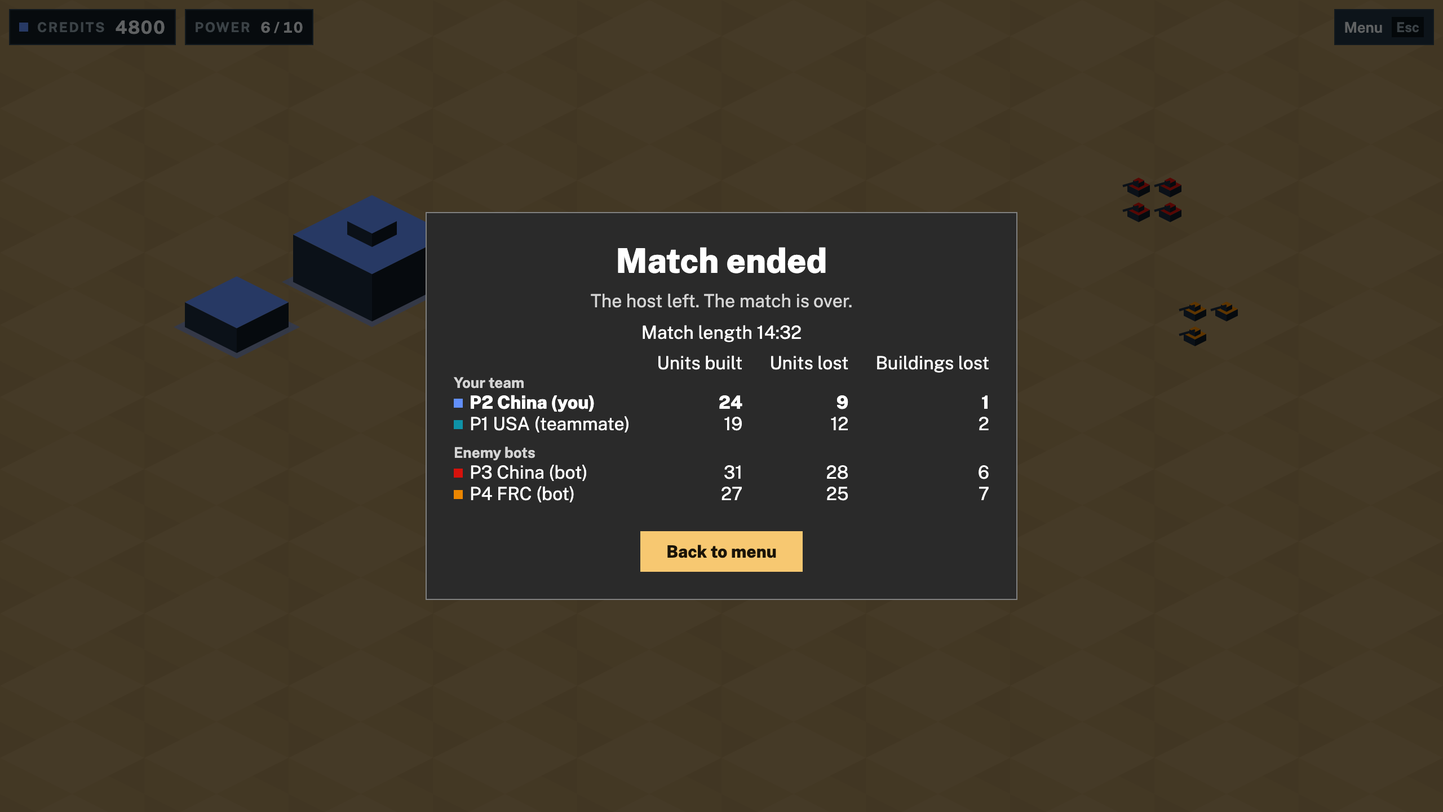
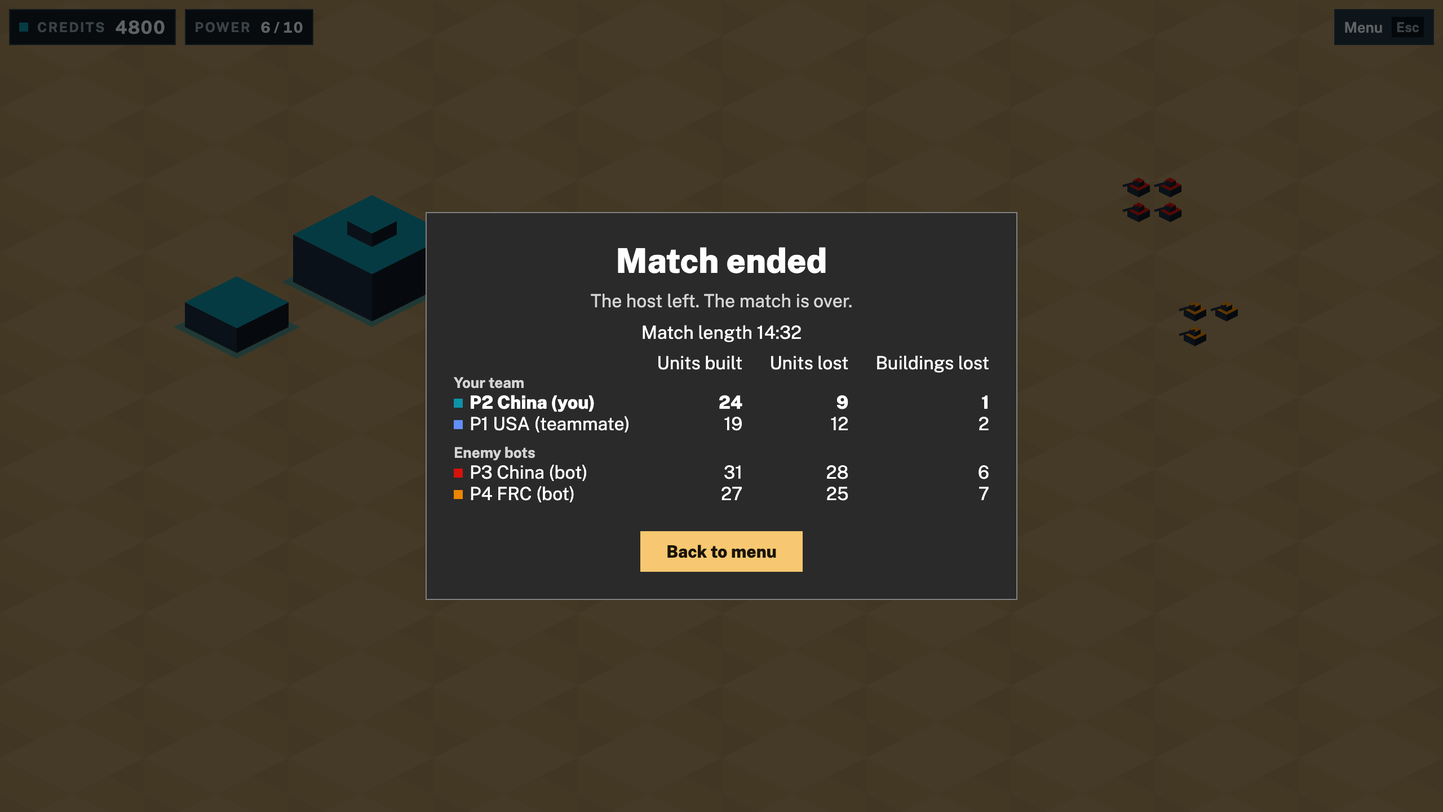
P7-2 after the owner's match: colours by player, two modes, one-line questions
Owner decisions 2026-11-24: host blue and guest teal in both windows; vs Friend with Opponents none or 2 bots; no wrapped leave or quit lines; shorter version line.

Changed region(s): [[0.1875, 0.2188, 0.3125, 0.3438], [0.125, 0.3438, 0.2188, 0.4062]]

diff --git a/docs/images/p7/team.html b/docs/images/p7/team.html
@@ -35,6 +35,7 @@ main{position:relative;width:1280px;height:720px;transform-origin:top left;overf
 .toggles{display:flex;gap:6px}
 .toggles span{flex:1 1 0;min-width:max-content;height:43px;padding:12px;text-align:center;font-weight:600;color:var(--soft);background:var(--field);border-radius:2px;white-space:nowrap}
 .toggles span.on{background:var(--sel)}
+.toggles .vlabel{width:96px;align-self:center}
 .slotgap{padding:28px 16px 12px;margin-top:-16px;position:relative;display:flex;gap:12px;align-items:baseline}
 .slotgap::before{content:'';position:absolute;left:0;right:0;bottom:0;top:16px;border:1px dashed var(--edge)}
 .stack{display:flex;flex-direction:column;gap:8px}
@@ -77,8 +78,8 @@ kbd{display:inline-block;min-width:18px;height:18px;padding:0 4px;font:700 12px/
 .off,.off span{color:#808080}
 .primary.off{background:#9a8150;color:var(--ink)}
 /* Esc menu confirm box, as docs/images/esc-round/esc.html draws it (HudSmallPanel, HudSmallButton). */
-.small{width:244px;background:rgba(26,26,26,.6);padding:8px 12px;display:flex;flex-direction:column;gap:4px}
-.small .q{text-align:center;font:400 12px/14px Public;margin-bottom:4px}
+.small{min-width:244px;background:rgba(26,26,26,.6);padding:8px 12px;display:flex;flex-direction:column;gap:4px}
+.small .q{white-space:nowrap;text-align:center;font:400 12px/14px Public;margin-bottom:4px}
 .small span{height:22px;padding:4px;font:600 12px/14px Public;color:#dfdfdf;background:rgba(26,26,26,.6);text-align:center}
 .small span.focus{box-shadow:0 0 0 2px #ccc}
 /* Result card */
@@ -114,8 +115,9 @@ const web=os==='web';
 const who=opt('who',view==='end'&&end==='left'?'host':'guest',['host','guest','out']);
 const host=who==='host';
 const VERSION='0.17.0';
-// Owner answers Q4 (user, 2026-11-24): colours by viewer, base and Neon.
-const C={base:{you:'#628ffa',mate:'#0e92a7',b3:'#d6120c',b4:'#ec8600'},neon:{you:'#2f7bff',mate:'#00d8e8',b3:'#ff2f45',b4:'#ff7a00'}}[set];
+// Colours by player (user, 2026-11-24, after the 2v2 match): the host blue, the guest teal in both windows, base and Neon.
+const PC={base:{host:'#628ffa',guest:'#0e92a7',b3:'#d6120c',b4:'#ec8600'},neon:{host:'#2f7bff',guest:'#00d8e8',b3:'#ff2f45',b4:'#ff7a00'}}[set];
+const C={you:host?PC.host:PC.guest,mate:host?PC.guest:PC.host,b3:PC.b3,b4:PC.b4};
 const ME=host?'P1 USA':'P2 China', MATE=host?'P2 China':'P1 USA';
 const sq=c=>`<i class="sq" style="background:${c}"></i>`;
 const main=document.querySelector('main');
@@ -131,13 +133,14 @@ const footer=(status,buttons,error)=>`<div class="divider"></div><div class="foo
 function play(){
   const team=mode==='team', bot=mode==='bot';
   const map=team?'Broken Crown':'Dry Wells', info=team?'4 start positions · 8 supply sources':'2 start positions · 16 supply sources';
-  const toggles=`<div class="toggles${off}" id="mode"><span class="${bot?'on':''}">vs Bot</span><span class="${mode==='friend'?'on':''}">vs Friend</span><span class="${team?'on':''}">With a friend vs 2 bots</span></div>`;
+  const toggles=`<div class="toggles${off}" id="mode"><span class="${bot?'on':''}">vs Bot</span><span class="${bot?'':'on'}">vs Friend</span></div>`;
+  const versus=`<div class="toggles${off}" id="versus"><b class="vlabel">Opponents</b><span class="${team?'':'on'}">none</span><span class="${team?'on':''}">2 bots</span></div>`;
   const slot='<div class="slotgap"><span>Open slot</span><span class="hint">Your friend picks their own faction.</span></div>';
   const mapInfo=`<div class="stack" style="align-self:start;gap:4px"><div class="hint">${info}</div>${team&&hidden?'<div class="hint" id="hidden">Dry Wells has 2 start positions; team matches need 4.</div>':''}</div>`;
   const cells=['<div class="flabel">You</div>','<div class="flabel">Map</div>',field('United States'),field(map),
     '<div class="flabel">Mode</div>',mapInfo,toggles,'<div></div>'];
   if(bot) cells.push('<div class="flabel">Bot</div>','<div></div>',field('China'),'<div></div>');
-  else cells.push(slot,'<div></div>');
+  else cells.push(versus,'<div></div>',slot,'<div></div>');
   if(team) cells.push(`<div class="stack" id="bots"><div class="flabel">Enemy bots</div>${field('China')}${field('Free Resistance Coalition')}</div>`,'<div></div>');
   const status=busy?'Connecting… 2 s':bot?'Dry Wells · United States vs China bot':'You get a link to send to your friend.';
   const buttons=busy?'<div class="secondary">Cancel</div><div class="primary off">Create match</div>':`<div class="primary">${bot?'Start match':'Create match'}</div>`;
@@ -151,7 +154,7 @@ function waiting(){
   const left=`<div class="flabel">${web?'Invite link':'Match code'}</div>
     <div style="display:flex;gap:12px"><div class="field" style="flex:1;color:#ebebeb">${web?'https://play.wargrid.example/?code=K7Q2XD':'K7Q2XD'}</div><div class="primary" style="min-width:0">${web?'Copy link':'Copy code'}</div></div>
     <div class="hint">Or tell them the code: <b style="color:#fff">K7Q2XD</b></div>
-    <div class="flabel">Your team</div>${row(1,'You','United States',C.you)}
+    <div class="flabel">Your team</div>${row(1,'You','United States',PC.host)}
     <div class="open"><span>2</span><span>Open</span><span class="hint">waiting for your friend…</span></div>
     <div class="flabel">Enemy bots</div>${row(3,'China (bot)','',C.b3)}${row(4,'Free Resistance Coalition (bot)','',C.b4)}`;
   const right='<div class="flabel">Map</div><div class="mappanel"><span class="bold">Broken Crown</span><span class="hint">4 start positions · 8 supply sources</span></div>';
@@ -162,7 +165,7 @@ function waiting(){
 
 function join(){
   // The relay refuses only the joiner (relay/room.go join), so the line must tell the guest how the pair gets going again.
-  const line=`Your friend’s game is a different version from yours (v${VERSION}). Whoever is behind updates or reloads, then the host creates a new match.`;
+  const line=`Your friend’s game is a different version from yours (v${VERSION}).`;
   const cells=['<div class="flabel">Match code</div>','<div class="flabel">Map</div>',
     '<div class="field" style="height:50px">K7Q2XD</div>','<div class="hint" style="align-self:start">The host chooses the map.</div>',
     '<div class="hint">Opened a join link? The code is already filled in.</div>','<div></div>',

diff --git a/docs/packages.md b/docs/packages.md
@@ -28,7 +28,7 @@ Player packages, in order; ids keep the order packages were placed in, so P5 and
 | P17 | Pan with the mouse | Right-drag pans like Zero Hour (anchor at the click, speed grows with distance, a scroll cursor; GeneralsGameCode `afc2a103f` `LookAtXlat.cpp:257-281`, `:476-483`), middle-drag grabs the map 1:1; a short right-click still orders: the order fires on release only if the pointer never moved past about 8 px (user, 2026-11-23; engine scan in the private notes). Edge scroll stays as the beginner way. Built before P16 (user, 2026-11-23, director round) | Every right-button action (orders, placement cancel, attack-move exit, cell cancel) fires on release within about 8 px, so a right-drag never cancels placement; `H` pressed again near the Headquarters returns the camera to where it was (0 A.D. `jumpCamera`) and the arrival ring where `H` or `Space` lands (moved from P16, user, 2026-11-23); a check of what a Mac trackpad sends; invert toggle later |
 | P16 | Know what your factory is making | The production panel redesign from the owner's draft v2 (user, 2026-11-23): `NOW PRODUCING` with the unit's glyph, name and bar, a `NEXT` row with runs merged as `×N`, a read-only `+N more` list, `QUEUE n / 9` beside the queue, one panel height in every state; cancel by kind (right-click on the build cell) plus the unit in production; unit glyphs (building glyphs wait for P2.6). Answers: [queue follow-up round](reference/design-answers-2026-11-08.md#queue-follow-up-round-user-2026-11-23). Plus the production strip right of POWER (`hud-v5-layout.md` Full set): one chip per finished producer with its unit glyph and a progress bar, hollow when idle, a click selects it, a double click also jumps there (user, 2026-11-23, director round) | The NOW row explains slow or stuck production (`Low power`, `Exit blocked`); a trace count of accidental NOW cancels (a cancel then the same kind queued within 2 s) |
 | P18 | A short Esc menu | The owner finds today's Esc menu too full and unstructured (user, 2026-11-23, P17 review round): eight buttons, volume sliders and a 26-row controls list that has no room left for P17's drag and trackpad rows at 720 px. Engine survey (private, `research/esc-menu-patterns-2026-11-23.md`): no local engine puts a controls list on its pause menu (Zero Hour 5 buttons, Warzone 2100 5-6, OpenRA about 7, 0 A.D. 10); the reference sits behind its own button or page. Recommendation to test on the one page: Resume, Settings, Controls, Leave (Quit on desktop); the toggles and sliders move into Settings; Controls becomes its own page, mouse first, built from `PauseMenu.controls()`, with the P17 rows (right and middle drag, two-finger pan and pinch on macOS). After P16 (user, 2026-11-23) Rider (user, 2026-11-24): remove the strip's stacked chip and its `F7` toggle (the owner kept upright after trying both); idle producers show no chip in the production strip, also beside a busy one (user, 2026-11-24, [strip round](reference/design-answers-2026-11-08.md#production-strip-round-user-2026-11-23)) | Look in a blocking War Room round before the build; headless layout tests at 1280x720, 1280x800 and 1920x1080; the controls test (CL2) keeps every key row probed; risk to watch: one more click to the cheat sheet, so the first match must still teach the mouse |
-| P7 | Team up against bots | You and a friend against two bots online (user, 2026-11-16, [online teams](superpowers/specs/2026-11-16-online-teams-design.md); offline team matches with an allied bot moved to the Later item Team up with a bot by the fun-first reorder, user, 2026-11-20). Bot change (user, 2026-11-20, [director round](reference/design-answers-2026-11-08.md#fun-first-reorder-user-2026-11-20), after the owner's read of today's bot (user, 2026-11-20): "it plays ok, it just builds too few units too slowly and can be overwhelmed after a few minutes easily. It also doesn't deal well with base defenses in its way"): the enemy bots build more units sooner, both enemy bots share one wave clock and one target so their armies leave together, waves grow over the match, and a bot wave deals with base defences in its way; spec-worded tests per rule and one bot-trace re-pin; the pass bar keeps both night-12 columns hard, with an idle-human floor and at most 16 units per team in wave 0, since no bot-rating evening runs (user, 2026-11-21, [fun-first prep](reference/design-answers-2026-11-08.md#fun-first-prep-user-2026-11-21) 7-12, 7-13); the host picks the map (only maps with at least as many starts as seats) and each bot's faction before Create match; the match starts when the friend joins; teammates start side by side; the host's game runs the bots and sends their orders in its own frames, so the relay room stays at two seats, but lockstep's stamp check must accept them (a per-seat set of allowed players fixed at the start; today the bad command stamp check in `lockstep.gd` `_receive_tick` ends the match); a defeated guest may leave without ending the match (needs night Play on after a leave); the host leaving, defeated or not, ends the match with the reason shown; a teammate who quits ends the match with a result panel headed "Match ended", no winner, saying who left (`<name> left the match`; the reasons come with P8, user, 2026-11-21), and Play again is hidden then; a plain version-mismatch message; P7 takes its launcher and notice rows of P2.3a2's wording table (the version mismatch, the team waiting text) ahead of P2.3a2, and its card lists F29 (the voice before a refusal) as known, not new (fun-first reorder, user, 2026-11-20). Today's bot. Decisions recorded ([fun-first prep](reference/design-answers-2026-11-08.md#fun-first-prep-user-2026-11-21)); part 1 (enemy-bot rules) merged to `main` 2026-11-22 ([plan](superpowers/plans/2026-11-21-p7-enemy-bots.md), [verification](reference/p7-verification.md)); part 2 (2v2 online) plan written 2026-11-24 ([plan](superpowers/plans/2026-11-24-p7-2-team-online.md), [answers](reference/design-answers-2026-11-08.md#p7-part-2)), branch `p7-2-team-online`. Relay guards riders (user, 2026-11-17, [triage](reference/relay-guards-verification.md#p3-triage-2026-11-17) #68, #85): a refused WebSocket send gets its own end reason in the result panel; test the bots' refusal handling once they submit through `Lockstep`. Rider (user, 2026-11-19, director round after [P2.3a1 gate A](reference/design-answers-2026-11-08.md#p23a1-gate-a-user-2026-11-19)): map pings for teammates as decided ([HUD answers](reference/design-answers-2026-11-08.md#hud-m76), 2026-11-09: no text, one per player, a new one replaces the old, 30 s; an edge arrow in the ally colour for an off-screen ping, click jumps there), since P7 is the first package where a friend shares your team; not started. | the Play page picks the mode in one row, `vs Bot · vs Friend · With a friend vs 2 bots`, no A/B, and the version-mismatch message is a static mock-up checked by the player-experience reviewer, no A/B (user, 2026-11-21, [fun-first prep](reference/design-answers-2026-11-08.md#fun-first-prep-user-2026-11-21) 7-16, 7-17); the timed hidden-tab check (3, 8 and 15 s in Firefox, Chrome and Safari, [F11](STATUS.md#findings-list)) in its friend session (user, 2026-11-16); the result panel names who left, your teammate or an opponent (extends F27's panel; user, 2026-11-16; the why waits for P8, user, 2026-11-21), including a seat the relay threw out (Relay guards: in a 1v1 that gives the other player today's opponent-left Victory, accepted by the user 2026-11-16); the review proposals in the [record](superpowers/specs/2026-11-16-online-teams-design.md#design-inputs-from-the-player-experience-review-proposals-not-decided), decided except the version message's content (user, 2026-11-21, 7-26 to 7-29); gate: headless 2v2 netplay pin, offline 2v2 trace, a rendered 2v2 Ashfall row, a real friend session with native Mac and Firefox (Safari and Chrome report-only) |
+| P7 | Team up against bots | You and a friend against two bots online (user, 2026-11-16, [online teams](superpowers/specs/2026-11-16-online-teams-design.md); offline team matches with an allied bot moved to the Later item Team up with a bot by the fun-first reorder, user, 2026-11-20). Bot change (user, 2026-11-20, [director round](reference/design-answers-2026-11-08.md#fun-first-reorder-user-2026-11-20), after the owner's read of today's bot (user, 2026-11-20): "it plays ok, it just builds too few units too slowly and can be overwhelmed after a few minutes easily. It also doesn't deal well with base defenses in its way"): the enemy bots build more units sooner, both enemy bots share one wave clock and one target so their armies leave together, waves grow over the match, and a bot wave deals with base defences in its way; spec-worded tests per rule and one bot-trace re-pin; the pass bar keeps both night-12 columns hard, with an idle-human floor and at most 16 units per team in wave 0, since no bot-rating evening runs (user, 2026-11-21, [fun-first prep](reference/design-answers-2026-11-08.md#fun-first-prep-user-2026-11-21) 7-12, 7-13); the host picks the map (only maps with at least as many starts as seats) and each bot's faction before Create match; the match starts when the friend joins; teammates start side by side; the host's game runs the bots and sends their orders in its own frames, so the relay room stays at two seats, but lockstep's stamp check must accept them (a per-seat set of allowed players fixed at the start; today the bad command stamp check in `lockstep.gd` `_receive_tick` ends the match); a defeated guest may leave without ending the match (needs night Play on after a leave); the host leaving, defeated or not, ends the match with the reason shown; a teammate who quits ends the match with a result panel headed "Match ended", no winner, saying who left (`<name> left the match`; the reasons come with P8, user, 2026-11-21), and Play again is hidden then; a plain version-mismatch message; P7 takes its launcher and notice rows of P2.3a2's wording table (the version mismatch, the team waiting text) ahead of P2.3a2, and its card lists F29 (the voice before a refusal) as known, not new (fun-first reorder, user, 2026-11-20). Today's bot. Decisions recorded ([fun-first prep](reference/design-answers-2026-11-08.md#fun-first-prep-user-2026-11-21)); part 1 (enemy-bot rules) merged to `main` 2026-11-22 ([plan](superpowers/plans/2026-11-21-p7-enemy-bots.md), [verification](reference/p7-verification.md)); part 2 (2v2 online) plan written 2026-11-24 ([plan](superpowers/plans/2026-11-24-p7-2-team-online.md), [answers](reference/design-answers-2026-11-08.md#p7-part-2)), branch `p7-2-team-online`. Relay guards riders (user, 2026-11-17, [triage](reference/relay-guards-verification.md#p3-triage-2026-11-17) #68, #85): a refused WebSocket send gets its own end reason in the result panel; test the bots' refusal handling once they submit through `Lockstep`. Rider (user, 2026-11-19, director round after [P2.3a1 gate A](reference/design-answers-2026-11-08.md#p23a1-gate-a-user-2026-11-19)): map pings for teammates as decided ([HUD answers](reference/design-answers-2026-11-08.md#hud-m76), 2026-11-09: no text, one per player, a new one replaces the old, 30 s; an edge arrow in the ally colour for an off-screen ping, click jumps there), since P7 is the first package where a friend shares your team; not started. | the Play page picks the mode in one row, `vs Bot · vs Friend · With a friend vs 2 bots`, no A/B (since the owner's 2v2 match `vs Bot · vs Friend` with an Opponents choice under vs Friend, user, 2026-11-24, [P7 part 2](reference/design-answers-2026-11-08.md#p7-part-2)), and the version-mismatch message is a static mock-up checked by the player-experience reviewer, no A/B (user, 2026-11-21, [fun-first prep](reference/design-answers-2026-11-08.md#fun-first-prep-user-2026-11-21) 7-16, 7-17); the timed hidden-tab check (3, 8 and 15 s in Firefox, Chrome and Safari, [F11](STATUS.md#findings-list)) in its friend session (user, 2026-11-16); the result panel names who left, your teammate or an opponent (extends F27's panel; user, 2026-11-16; the why waits for P8, user, 2026-11-21), including a seat the relay threw out (Relay guards: in a 1v1 that gives the other player today's opponent-left Victory, accepted by the user 2026-11-16); the review proposals in the [record](superpowers/specs/2026-11-16-online-teams-design.md#design-inputs-from-the-player-experience-review-proposals-not-decided), decided except the version message's content (user, 2026-11-21, 7-26 to 7-29); gate: headless 2v2 netplay pin, offline 2v2 trace, a rendered 2v2 Ashfall row, a real friend session with native Mac and Firefox (Safari and Chrome report-only) |
 | P15 | First new units | A heavy tank per faction, data and a shape each, no new simulation code (balance input: F44 and the p2-3b night's `p15-balance.md`, private, user 2026-11-23) (user, 2026-11-20, [director round](reference/design-answers-2026-11-08.md#fun-first-reorder-user-2026-11-20)): China Overlord without its add-ons, FRC Marauder on today's salvage weapon tiers, USA Paladin without its point-defence laser (a recorded departure until ground batch A); stretch: the FRC Terrorist (one small mechanic: its shot kills itself, the blast uses the existing splash) if the three land under budget; unarmed transports (Ambulance, Troop Crawler) and artillery stay in ground batch A; none is stealth or artillery, so the fog and targetability rule stays for the rest of ground batch A; it builds the kind-row cap for the first seventh selectable kind ([layout reference](reference/hud-v5-layout.md#selection-panel)), a counter line and grid slot per new kind on P2.3b's card, and a shape per unit in today's look (P2.4 redraws it); the heavies go into the bots' lists, which re-pins the bot traces; the picked units leave ground batch A ([fun-first reorder, user, 2026-11-20](superpowers/specs/2026-11-20-fun-first-reorder-design.md)). Lighter process ([design](superpowers/specs/2026-11-20-fun-first-reorder-design.md#lighter-process-for-p23b-p7-and-p15)), superseded by `AGENTS.md` (user, 2026-11-22). Riders from the night 14 review of these decisions (user, 2026-11-22): the new units' own display names are picked ([fun-first prep 15-12](reference/design-answers-2026-11-08.md#fun-first-prep-user-2026-11-21)); the heavies get very different silhouettes per faction, picked in a blocking War Room round before the first slice (15-13, user, 2026-11-22); the plan's Terrorist task starts with a failing test of it reaching a standing Rifleman one cell away, and its range changes only if that test fails, recorded as a departure from Zero Hour; Zero Hour's bot wave templates for these units are not part of P15, which stays data-only: they become their own package after it (Later pile, Bots field mixed waves); the gate review follows the current [night run](night-run.md) reviewers. Rider from the p16-prep night review (user, 2026-11-24): "today's salvage weapon tiers" are settled before the build, because `frc_tank` has only two distinct guns (20, 25, 25; `frc.gd`) while Zero Hour's Marauder has three (60 AP at 2000, 1500 and 750 ms; paper check `p15-balance-checks.md`, private). Decisions recorded ([fun-first prep](reference/design-answers-2026-11-08.md#fun-first-prep-user-2026-11-21)), plan not written | Balance judged in playtests: the four-units rule is dropped (user, 2026-11-20) |
 | P19 | Hear the whole battlefield | The Zero Hour sound categories Wargrid still lacks, for today's units and P15's heavies (user, 2026-11-24; gap table from `soundeffects.ini` and the object INI fields): a move-start rev per vehicle (`SoundMoveStart`, e.g. `CrusaderTankMoveStart`) and a turret loop while it turns (`TurretMoveLoop`), from the Sci-Fi III Vehicle, Sci-Fi Transport and Robot Mechanics takes; a death sound per unit type instead of one infantry and one vehicle sound; building damaged states (`SoundOnDamaged`, `SoundOnReallyDamaged`); a sound when you select a building (`SupplyCenterUSASelect` and others); cash and supply sounds (a collector unloading at the depot). Each is per faction where Zero Hour has it per faction, built by `tools/audio/licensed.py` with a free fallback, as the licensed fire sounds. Pack material (`~/music_sounds`, checked 2026-11-24): move start from Sci-Fi III Vehicle (Pulse Engine, Turbine Fusion, Skimmer, Warper; 5 takes each) and Sci-Fi Transport Gliders and Speeders (44, with left-right pass-bys); turret from Sci-Fi Robot Mechanics (Servo, Servo Heavy, Tank; 16); vehicle deaths from Rocket Explosion A to C and Orbital Bombardment; building select from Sci-Fi Doors (8) and Power-Ups; cash from Power-Up Metalic and Sci-Fi III Magnet Bolt. Not in the packs: tank treads, infantry deaths, building damage and collapse; those need another pack or generated sounds, as flame and spray did. Picked in one War Room listening round before the build. Placed after P15 so the heavies get their sounds in the same pass. Not in it: aircraft engines, garrison, stealth and enter or exit (their units come later), upgrade and promotion sounds (ground batch A), map ambience, fight music (its own entry below) | Sound only: no simulation or trace change; the voice caps keep today's totals |
 | P2.3a2 | Know why an order failed | The refusal line says why in player wording from a table over the simulation's refusal texts (match and launcher), with its own sound rule: the acknowledgement voice and order hint only for accepted orders, not before the answer ([F29](STATUS.md#findings-list), user, 2026-11-16), the refusal beep loud enough ([F30](STATUS.md#findings-list), user, 2026-11-17), online the same rule waits for the simulation's validation instead of counting every sent order as accepted ([F16](STATUS.md#findings-list), user, 2026-11-20), the N-cap rider, and the in-match Esc menu with the launcher Settings structure (user, 2026-11-14). Plan not written; not started. Wording-table inputs from the Relay guards player-experience review (user, 2026-11-17; [triage](reference/relay-guards-verification.md#p3-triage-2026-11-17)): join refusals show raw relay words (`relay busy`, `too many joins`) in the launcher footer; the acknowledgement voice plays before a refusal; a wrong code during an unknown-code flood reads as "Connection to relay lost". Rider ([triage](reference/relay-guards-verification.md#p3-triage-2026-11-17) #86): the N-cap test checks the text only; extend it with the reject sound, HUD state and accepted orders when F29 changes `_submit`. Rider (user, 2026-11-18, [critique review](reference/design-answers-2026-11-08.md#sim-boundary-critique-review-user-2026-11-18)): overtaken orders get their own column in the wording table, silent for a dead target or unit, a neutral line for an emptied pile or a finished production entry. Riders (user, 2026-11-20, [P2.3a1 gate B](reference/design-answers-2026-11-08.md#p23a1-gate-b-screenshot-round-user-2026-11-20)): when a unit finishes, the visible queue rows shift down one slot, so a cancel can hit the next newer entry: hold the rows while the pointer is in the queue, like the kind rows; the Desync notice prints the OS save path (backslashes on Windows, a three-line wrap there): decide whether players see the path at all. Director proposal, drafted for the owner before it is built (user, 2026-11-20): while a refusal shows, the thing it is about flashes in `warn` (the credits for "Insufficient credits", the ghost for a blocked footprint, the power group for low power). | The Esc menu gets an opaque panel and the launcher Settings structure (actions on top, then grouped Audio, Graphics and Playtest sections with headers and the launcher's switches) instead of one stacked list; its buttons are see-through today and its Mute is Godot's default switch (user, 2026-11-14, after the P2.1 desktop check); gate: a rendered rerun with a refusal shown during the sample. Rider (user, 2026-11-20, P2.3a1 night review): on a dead match (desync, disconnect) Esc on the freeze card must not open the pause menu's Resume; it offers only leave and report. Gate rider (user, 2026-11-20, [low-end loose ends](reference/design-answers-2026-11-08.md#low-end-report-loose-ends-user-2026-11-20)): HUD rebuilds on change, plus the match-bench pair `load=team&hud=off` against `load=team`. |
@@ -42,7 +42,7 @@ Player packages, in order; ids keep the order packages were placed in, so P5 and
 | P5 | Units that find their way | Core movement on the new movement base, behind a toggle key ([decisions](reference/design-answers-2026-11-08.md#movement-and-pathing-user-2026-11-10), [core and advanced slices](reference/design-answers-2026-11-08.md#package-review-second-pass-user-2026-11-13-night)): the provisional base method in minimal form (rectangle navmesh B; the finer grid A as reference, and as fallback if B fails the stuck check), individual routes, body-safe straightening, and moving units never lock cells (only stopped units do, reference-counted, the Permafrost rule); deferred path delivery under a searched-node budget ([simulation review answers](reference/design-answers-2026-11-08.md#simulation-reference-review-user-2026-11-13)), so a big order gets every unit moving within a tick or two. The movement lab holds only what core needs: the budget size (8 against 32 against all, response to the click against cost), navmesh against finer-grid path shape, body-safe against centre-line straightening. One task in the movement lab: simulation debug overlays for routes, blocked cells and navmesh rectangles (user, 2026-11-16, OpenRCT2 review (private)). Riders (user, 2026-11-16, OpenRA review (private)): weighted A* as one A/B parameter, keeping the explicit f, g, node-index tie-break deterministic; a search recorder for the stuck scenarios. Candidate (user, 2026-11-16, Hypersomnia review (private)): re-plan only when the goal cell changes, measured in the stuck scenarios. Advanced movement comes later ([Later](#later)) | First step: the seeded fuzz and invariant test (moved from P4); the cross-platform path determinism test early (item 8 of the 2026-11-10 list). Before the plan: low-end D10, the forward budget table with D5's bot line ([loose ends](reference/design-answers-2026-11-08.md#low-end-report-loose-ends-user-2026-11-20)) |
 | P2.4 | Three armies | Own shapes for the units the factions share today ([pictures](images/map-art/notes.md), [decisions](reference/design-answers-2026-11-08.md#map-art-faction-shapes-m75-user-2026-11-13)): rifle and rocket infantry per faction, USA and China bulldozer, Scout Car and Armed Pickup as two vehicles; the four tanks with faction hull outlines (FRC tank 0.7 cells, Armed Pickup about 0.65), the USA soldier's head and the light vehicles' guns (round 4, user, 2026-11-14). Drawing only | Paint-order audit at eight headings (it samples two today), and the one-sample fault it finds in today's rifle infantry fixed (user, 2026-11-13); zoom 2 finish: `_build_parts` reads the detail level, with these units' zoom 2 versions; palette: darker side band, lifted owner colours, firmer cliffs (rounds 4 and 5, user, 2026-11-14). Prep answers (user, 2026-11-14, [questionnaire](reference/design-answers-2026-11-08.md#map-art-faction-shapes-m75-user-2026-11-13)); estimate (agent): about a third more unit triangles, about +0.26 ms rendered tick-frame p95 on the Scout Car layouts. Design and plan not written; the unit shadow drawn as a 2:1 rhombus like every other ground shape, size, darkness and High-only unchanged (user, 2026-11-15, [design answers](reference/design-answers-2026-11-08.md#visual-and-ux-proposal-second-pass-user-2026-11-15)); rider (user, 2026-11-10, placed in the backlog review 2026-11-16): driving cues for vehicles, minimal bits only, no fancy animations: moving track stripes or wheel spokes, a small dust or exhaust puff, a slight body bob or tilt on start and stop; presentation only; Zero Hour's tread scroll and dust are read at design Round 6 riders (user, 2026-11-17; [map art reference](reference/map-art-shapes.md) and [`shapes-picked.json`](images/map-art/shapes-picked.json)): owner palette A (`628ffa d6120c 4ad49b f8e425 0e92a7 7242fe ec8600 f79cef`), the Neon removal (F12) and an opt-in friend/foe colour mode with colour-blind presets; pink against the HUD cyan checked here. The China tank's two barrels further apart, and tracks and wheels, each on an A/B (user, 2026-11-17). Open from round 6 (agent findings, placed here by the user, 2026-11-17): tritanopia is outside the colour bar. |
 | P6 | Units that make room | Core avoidance on the new movement base, behind a toggle key: moving units get past each other as soft movers: they push and are pushed, with pressure damping, and parked units block their cell ([simulation review answers](reference/design-answers-2026-11-08.md#simulation-reference-review-user-2026-11-13)). The avoidance spike's Zero Hour style yielding (approach A, tag `archive/spike-avoidance`, `docs/reference/unit-avoidance-spike.md` there; [behaviour](reference/design-answers-2026-11-08.md#unit-avoidance-behaviour)) is a reference only. Advanced avoidance comes later ([Later](#later)) | Cost cap about 0.5 ms per tick on the 300-unit benchmark rows ([scope](reference/design-answers-2026-11-08.md#unit-avoidance-scope)), never loosened; the design measures the soft-mover cost first, and a miss stops for the user (no avoidance spike variant met the cap); at its planning (user, 2026-11-15, moved here in the backlog review 2026-11-16): the open unit avoidance round 2 questions 4 to 6, 9, 10 and 12 ([design answers](reference/design-answers-2026-11-08.md)); low-end D11, the team match and skirmish3v3 in the first measurement ([loose ends](reference/design-answers-2026-11-08.md#low-end-report-loose-ends-user-2026-11-20)) |
-| P11 | Friends against friends | Join puts players into a room: the host may still change the map, everyone marks ready (any change clears it), the host starts; humans on both sides (user, 2026-11-16; [blueprint M9 lobby look](blueprint.md#m9--3v3-online)). Placed after P6 by the agent, approved with the arrangement. Design and plan not written | Layout candidates as a [War Room](../warroom/README.md) round first, built on the sidebar launcher's [mock-ups](images/launcher-mockups/) (Play, Waiting with its READY badge; no ready-room mock-up exists); the design compares lobby backend option B (the direction) with the relay-only option A |
+| P11 | Friends against friends | Join puts players into a room: the host may still change the map, everyone marks ready (any change clears it), the host starts; humans on both sides (user, 2026-11-16; [blueprint M9 lobby look](blueprint.md#m9--3v3-online)). Each player chooses their own colour and start position in the lobby (user, 2026-11-24, [P7 part 2](reference/design-answers-2026-11-08.md#p7-part-2)). Placed after P6 by the agent, approved with the arrangement. Design and plan not written | Layout candidates as a [War Room](../warroom/README.md) round first, built on the sidebar launcher's [mock-ups](images/launcher-mockups/) (Play, Waiting with its READY badge; no ready-room mock-up exists); the design compares lobby backend option B (the direction) with the relay-only option A |
 | P2.5 | Supplies you can read | Supply piles as rows of pallets that empty, cargo in white (round 6), salvage crates as a shape on a mat, construction inside four corner posts, a tandem-rotor Supply Helicopter; no text on the map (F6, F7 look). Drawing only. Needs P2.3a1 first, with credits left and build percent in its selection panel | Supply Helicopter rotors pinned to the hull ends, with a test at several headings (today's rotor drifts from its hull while turning; user, 2026-11-13); its motion stays with the aircraft work Round 6 riders (user, 2026-11-17; [map art reference](reference/map-art-shapes.md) and [`shapes-picked.json`](images/map-art/shapes-picked.json)): cargo white `#ffffff`, the earth pile pad, and hiding the fixed footprint fill the game paints under every supply source. Open from round 6 (agent findings, placed here by the user, 2026-11-17): the sand pad `#5c4e33` breaks SH15 in owner 0's slot 5, and the salvage crate's drum takes the pad colour. Rider (user, 2026-11-21): rerun the README capture (`readme_capture.gd`, [guide](guide/13-testing-and-tooling.md#offscreen-captures)) at the gate, so the README shows the board without map text. |
 | P2.6 | Three kinds of base | Own body per faction for Barracks, Vehicle Factory, Headquarters, Supply Depot and Power Plant (FRC: Vehicle Yard, Supply Cache, no Power Plant). Drawing only. Damage looks picked (round 4, user, 2026-11-14): corners off the camera side at 70 % and 35 %, darker roof, thin smoke below 35 %; with the China power plant and barracks heights and the FRC barracks outline | The buildings' zoom 2 versions (user, 2026-11-14); art lab toggles for pale roof edges and for a completion settle and a roof inset that fills with production (user, 2026-11-15, [design answers](reference/design-answers-2026-11-08.md#visual-and-ux-proposal-second-pass-user-2026-11-15)); rider (user, 2026-11-10, placed in the backlog review 2026-11-16): edge aliasing and round shapes: stair-stepped building edges and Power Plant drums that read as hexagons (6 segments at detail 1); no 2D MSAA under `gl_compatibility`; measure feathered alpha edge strips, more segments with per-facet shading for large cylinders only, or supersampling, against the Web budget Round 6 riders (user, 2026-11-17; [map art reference](reference/map-art-shapes.md) and [`shapes-picked.json`](images/map-art/shapes-picked.json)): framed building doors, the paused construction look (four posts alone) and, once the art lab confirms it, the no-power bolt (F21). Open from round 6 (agent findings, placed here by the user, 2026-11-17): calmer, darker roofs (look Q5, user, 2026-11-09) against today's full owner colour; doors share slot 7 with infantry heads; whether opponents and allies see the bolt and the paused posts. Rider (user, 2026-11-22, inbox): the Headquarters reads clearly apart from the Vehicle Factory, taller and styled strongly to its faction as in Zero Hour; look only, the 3x3 footprint stays. |
 | P4 | Smooth motion | Interpolation rework behind a toggle key; turret angles blended with the same alpha as hulls (user, 2026-11-15, [design answers](reference/design-answers-2026-11-08.md#visual-and-ux-proposal-second-pass-user-2026-11-15)). Rider (user, 2026-11-16, OpenRCT2 review (private)): the first step measures the on-screen unit fraction in a 210-unit 3v3; build a view gate for the per-frame rebuild only if P4 keeps rebuilding every frame (a build once per tick with vertices moved per frame makes it moot); a zoom gate is a feel call for the art-lab A/B. Rider (user, 2026-11-16, Hypersomnia review (private)): presentation toggles only (the smooth-blend toggle, art-perf levers) can be A/B-ed inside one rendered run, offline only; the [performance ledger](reference/performance.md) already interleaves up to 3 pairs | Perf overlay `split %` in Safari against Firefox (the fuzz and invariant test moved to P5); Rider (user, 2026-11-18): fix STATUS F34 (at 30 fps or slower a held tick is shown before the next) |

diff --git a/docs/reference/design-answers-2026-11-08.md b/docs/reference/design-answers-2026-11-08.md
@@ -1651,21 +1651,23 @@ Plan written 2026-11-24 ([plan](../superpowers/plans/2026-11-24-p7-2-team-online
 
 - **Names (Q1):** `<name>` is the result-row name with a short faction tag (`P2 USA`; tags USA, China, FRC); start line "You and P1 USA vs 2 bots (China, FRC)" (decided for the owner, 2026-11-24).
 - **1v1 leave line (Q2):** 7-20's line also replaces 1v1's "Your opponent left", under F27's Victory heading (decided for the owner, 2026-11-24).
-- **Colours by viewer (Q3):** by viewer and by colour, not by slot, since the Neon set swaps slots 5 and 7 (user, 2026-11-24).
-- **Colour values (Q4):** base you `#628ffa`, teammate `#0e92a7`, bots `#d6120c` and `#ec8600`; Neon you `#2f7bff`, teammate `#00d8e8`, bots `#ff2f45` and `#ff7a00`; the ΔE76 test covers both sets, normal and deuteranopia (user, 2026-11-24).
+- **Colours by player (Q3):** the host (player 1) is always blue and the guest (player 2) teal, in both windows; by colour, not by slot, since the Neon set swaps slots 5 and 7; replaces Q3's "by viewer" (user, 2026-11-24, after the 2v2 match).
+- **Colour values (Q4):** base host `#628ffa`, guest `#0e92a7`, bots `#d6120c` and `#ec8600`; Neon host `#2f7bff`, guest `#00d8e8`, bots `#ff2f45` and `#ff7a00`; the ΔE76 test covers both sets, normal and deuteranopia (user, 2026-11-24; host and guest for Q4's you and teammate, user, 2026-11-24, after the 2v2 match).
 - **Where (Q5):** only in matches with a human teammate; offline and 1v1 keep today's colours (user, 2026-11-24).
 - **Ping key (Q6):** `G`, checked in browsers at the gate (decided for the owner, 2026-11-24).
 - **Ping button (Q7):** shown only with a human teammate (decided for the owner, 2026-11-24).
 - **2v2 records (Q8):** replayable; the header gains `teams` and `bots` (decided for the owner, 2026-11-24).
 - **Rendered 2v2 row (Q9):** a scripted four-bot 2v2 on Ashfall, a gate task (decided for the owner, 2026-11-24).
+- **Leave and quit questions:** each is one line in the confirm box, which widens to fit its text, never wrapped or split into two lines; the wording of every variant stays (user, 2026-11-24, after the 2v2 match, where "Leave the match? The match ends for / your friend too." wrapped in the 244 px box).
 - **Defeated host's leave (Q10):** "You run the bots. Leaving ends the match for your friend.", with truthful 2v2 guest leave and quit questions (decided for the owner, 2026-11-24).
 - **Host-left heading (Q11):** "Match ended", with 7-21's line under it (decided for the owner, 2026-11-24).
 - **Refused send (Q12):** its own status `ended_send` with the relay-lost line; P8 words the reason (decided for the owner, 2026-11-24).
 - **Mock-up review (Q13):** the player-experience reviewer on a static mock-up, plus an advisory War Room round that never blocks (user, 2026-11-24).
 - **Approvals (Q14):** one local commit per green task on `p7-2-team-online`; one push of that branch at the gate, after the owner's match; never `main`, no merge, no deploy (user, 2026-11-24).
 
-- **Play page (7-16):** one row `vs Bot · vs Friend · With a friend vs 2 bots`, no A/B (user, 2026-11-21); replaces the Play page A/B of [Online teams refinement](#online-teams-refinement-user-2026-11-16) and of the [online teams design](../superpowers/specs/2026-11-16-online-teams-design.md).
+- **Play page (7-16):** two modes, `vs Bot · vs Friend`; under vs Friend an Opponents choice, "none" (1v1 against your friend) or "2 bots" (you and your friend against two bots), the two bot faction rows only for "2 bots"; no A/B (user, 2026-11-24, after the 2v2 match); replaces 7-16's three-entry row `vs Bot · vs Friend · With a friend vs 2 bots` (user, 2026-11-21), which replaced the Play page A/B of [Online teams refinement](#online-teams-refinement-user-2026-11-16) and of the [online teams design](../superpowers/specs/2026-11-16-online-teams-design.md).
 - **Version mismatch (7-17):** a static mock-up checked by the player-experience reviewer, no A/B (user, 2026-11-21); replaces the version-message A/B of the online teams design.
+- **Version line:** exactly "Your friend’s game is a different version from yours (v<version>).", the second sentence ("Whoever is behind updates or reloads, then the host creates a new match.") dropped; replaces the plan's 7-17 wording (user, 2026-11-24, War Room round `p7-2-team`).
 - **Who left (7-20):** "<name> left the match" for every leave; the reasons (quit, connection lost, did not return in 60 s) come with P8 (user, 2026-11-21); defers the reasons of the online teams design's teammate-quit rule to P8; the panel still names who left.
 - **Stall text (7-18):** "Waiting for your teammate…" (user, 2026-11-21).
 - **Bot marker (7-19):** `P3 FRC (bot)` in lists (user, 2026-11-21).
@@ -1679,6 +1681,7 @@ Plan written 2026-11-24 ([plan](../superpowers/plans/2026-11-24-p7-2-team-online
 - **Invite link (7-28):** carries no settings (user, 2026-11-21).
 - **Start countdown (7-29):** none; it stays P11 (user, 2026-11-21).
 - **Quit panel (7-30):** heading "Match ended", no winner, after a teammate quits (user, 2026-11-21).
+- **Own colour and start position:** choosing your own colour and start position goes into P11's lobby (user, 2026-11-24).
 
 ### P15
 

diff --git a/docs/images/p7/README.md b/docs/images/p7/README.md
@@ -1,6 +1,6 @@
 # P7 part 2 team screens
 
-Source for the advisory War Room round `p7-2-team` (2026-11-24) and the slice's player-experience pass: `team.html` draws the 2v2 screens at a 1280 x 720 layout with hash or query parameters: `view` (`play`, `waiting`, `join`, `match`, `end`, `confirm`), `mode` (`bot`, `friend`, `team`; Play page), `hidden=1` (team path with the remembered map hidden), `busy=1` (Play page locked while connecting), `os` (`mac`, `win`, `web`; the browser has no Quit and an invite link), `state` (`start`, `stall`, `out`, `ping`, `armed`, `mark`; match view), `end` (`victory`, `defeat`, `left`, `host`), `who` (`host`, `guest`, `out`: whose view; the Leave match question of the host, the playing guest and the defeated guest), `set` (`base`, `neon`: the owner colours by viewer, design answers Q4), and `measure=1` prints the measurement rows. The host is P1 USA and the guest P2 China; the match screens show the guest's view except `end=left` and `who=host`. Launcher sizes and colours come from `game/ui/launcher_theme.tres` and `game/scenes/launcher.tscn`; the HUD from the `HudSlab`, `HudChip`, `HudKey` and `HudButtonArmed` styles and [the HUD v5 layout reference](../../reference/hud-v5-layout.md); the confirm box as [the Esc menu round](../esc-round/esc.html) draws it; the result card from `game/scripts/match/result_panel.gd`. The world is plain sand with boxes in the owner colours, so both colour sets draw exactly. It needs the repository layout (`game/fonts/`); serve it through War Room.
+Source for the advisory War Room round `p7-2-team` (2026-11-24) and the slice's player-experience pass: `team.html` draws the 2v2 screens at a 1280 x 720 layout with hash or query parameters: `view` (`play`, `waiting`, `join`, `match`, `end`, `confirm`), `mode` (`bot`, `friend`, `team`; Play page), `hidden=1` (team path with the remembered map hidden), `busy=1` (Play page locked while connecting), `os` (`mac`, `win`, `web`; the browser has no Quit and an invite link), `state` (`start`, `stall`, `out`, `ping`, `armed`, `mark`; match view), `end` (`victory`, `defeat`, `left`, `host`), `who` (`host`, `guest`, `out`: whose view; the Leave match question of the host, the playing guest and the defeated guest), `set` (`base`, `neon`: the owner colours by player, design answers P7 part 2), and `measure=1` prints the measurement rows. The host is P1 USA and the guest P2 China; the match screens show the guest's view except `end=left` and `who=host`. Launcher sizes and colours come from `game/ui/launcher_theme.tres` and `game/scenes/launcher.tscn`; the HUD from the `HudSlab`, `HudChip`, `HudKey` and `HudButtonArmed` styles and [the HUD v5 layout reference](../../reference/hud-v5-layout.md); the confirm box as [the Esc menu round](../esc-round/esc.html) draws it; the result card from `game/scripts/match/result_panel.gd`. The world is plain sand with boxes in the owner colours, so both colour sets draw exactly. It needs the repository layout (`game/fonts/`); serve it through War Room.
 
 The `.webp` files are lossless 2x exports (2560 x 1440) from `sh warroom/tools/shoot.sh '/docs/images/p7/team.html#<params>' <out.webp> 2560x1440`: `play-bot`, `play-friend`, `play-team`, `play-team-hidden`, `play-team-connecting`, `waiting-team`, `join-version`, `match-start`, `match-stall`, `match-out`, `match-ping`, `match-armed`, `match-mark`, `match-mark-neon`, `leave-host`, `leave-guest`, `leave-guest-out`, `end-victory`, `end-victory-neon`, `end-defeat`, `end-left`, `end-host`.
 
